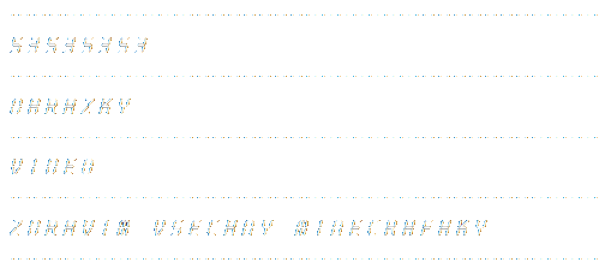
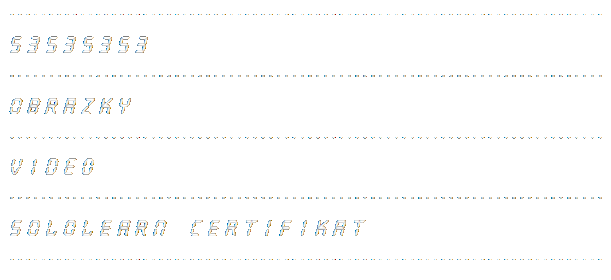
added sololearn certificate

diff --git a/navigation.html b/navigation.html
@@ -6,7 +6,7 @@
 <p id="tecky">............................................................................</p>
 <div> VIDEO</div>
 <p id="tecky">............................................................................</p>
-<div> ZDRAVIM VSECHNY MINECRAFAKY</div>
+<div> SOLOLEARN CERTIFIKAT</div>
 <p id="tecky">............................................................................</p>
 <p> </p>
 <p> </p>

diff --git a/index.html b/index.html
@@ -11,6 +11,7 @@
     <map name="navbarmap">
         <area shape="rect" coords="8,76,601,138" href="photo/index.html" alt="photo">
         <area shape="rect" coords="9,136,602,198" href="video/index.html" alt="video">
+        <area shape="rect" coords="12,198,600,258" href="https://www.sololearn.com/certificates/CC-J9YH9PXR" alt="sololearncertifikat">
     </map>
 </body>
 <footer>
